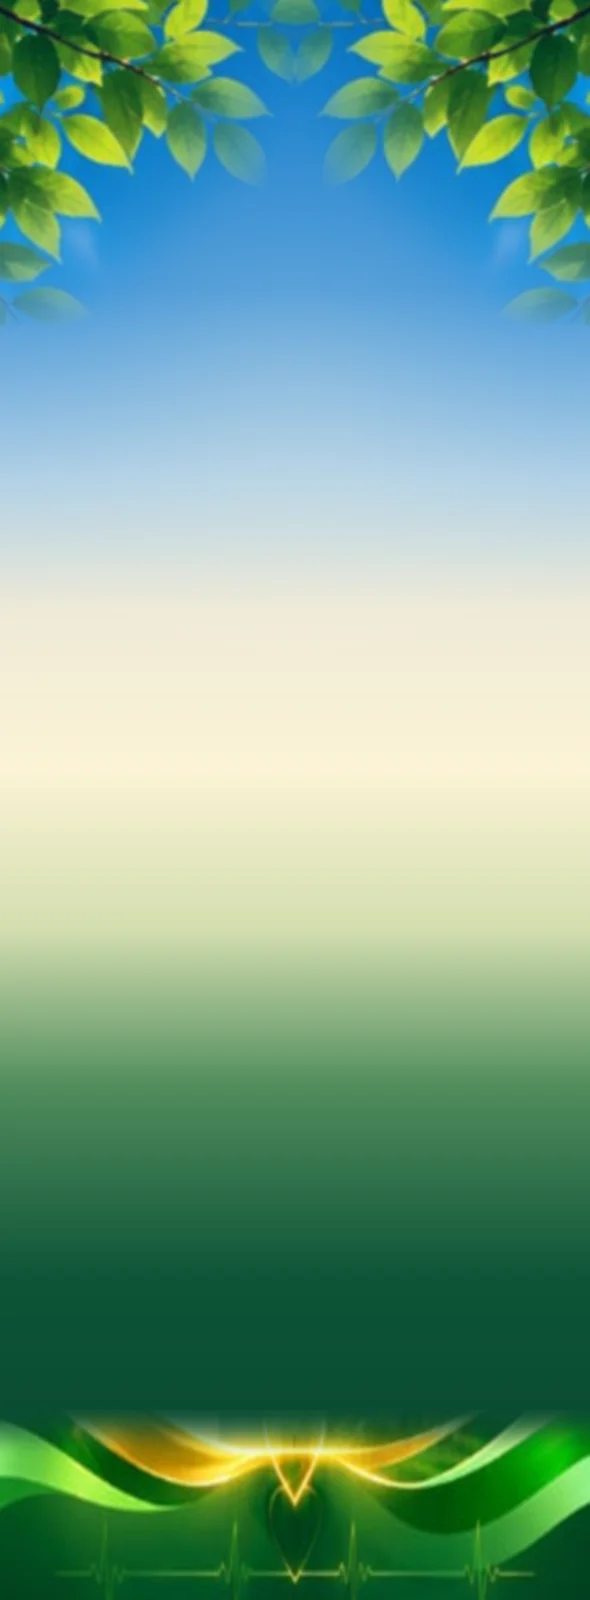
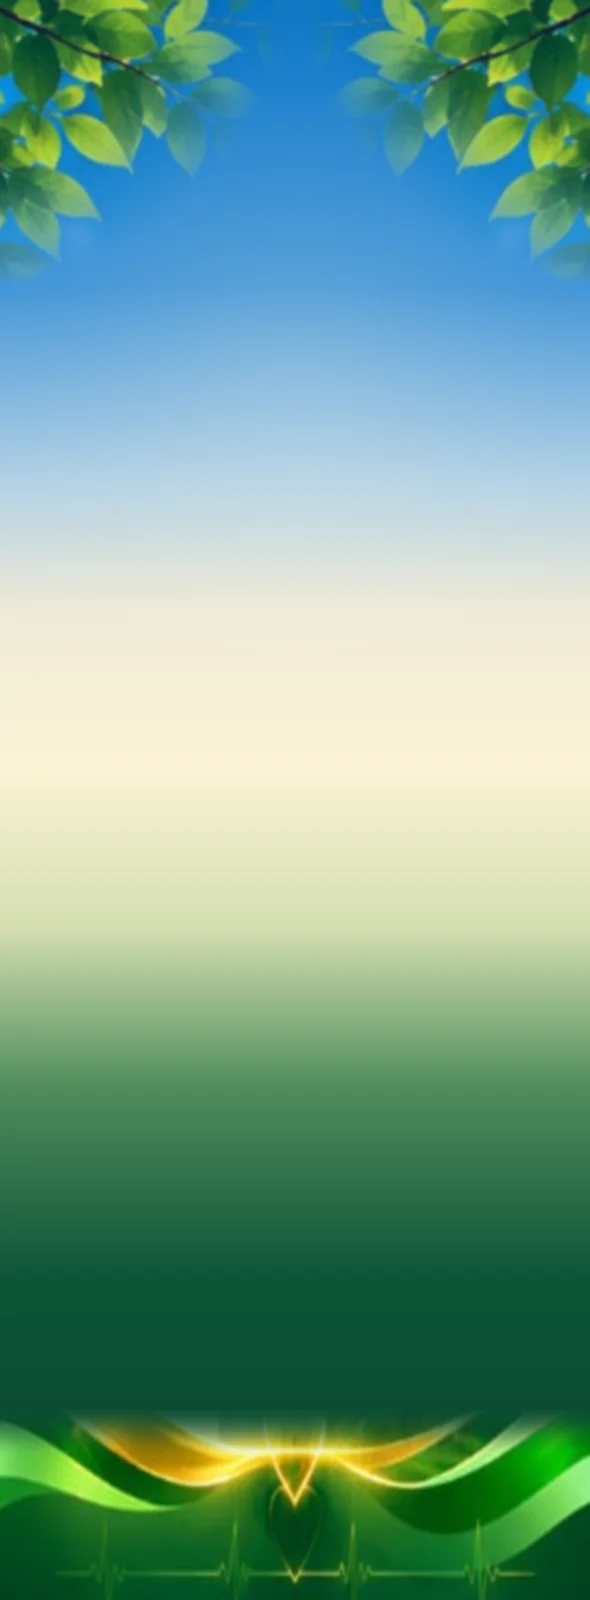
backdrop: heading halo for inline-styled view headings; trim leaf reach for text contrast

Changed region(s): [[0.0, 0.0, 1.0, 0.2188]]

diff --git a/src/mobile/mobile.css b/src/mobile/mobile.css
@@ -61,6 +61,12 @@
 
 /* Page-level headings/text sit on the illustrated backdrop: soft light halo keeps
    them readable over leaves/sky without boxing them. Card interiors unchanged. */
+/* Soft halo under every page heading: invisible on light hero text, lifts dark
+   view headings (inline-styled, no classes) off the leaves/sky. */
+.m-page h1, .m-page h2 {
+  text-shadow: 0 0 6px rgba(255, 253, 246, 0.85), 0 0 14px rgba(255, 253, 246, 0.55);
+}
+
 /* Readable header surface only for uncontained page headings/intros (never
    inside cards or colored heroes like .m-hero / .m-sanj-hero). Heading + intro
    join into one coherent surface when adjacent. */
